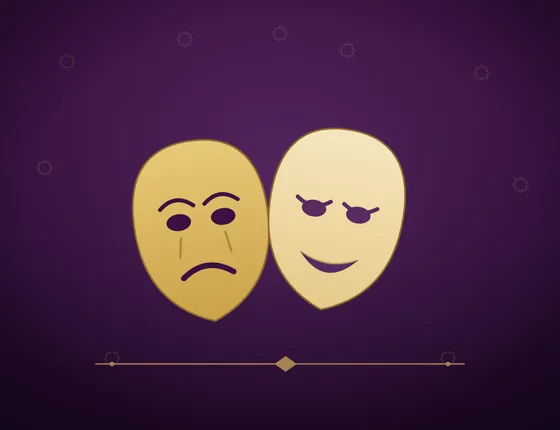
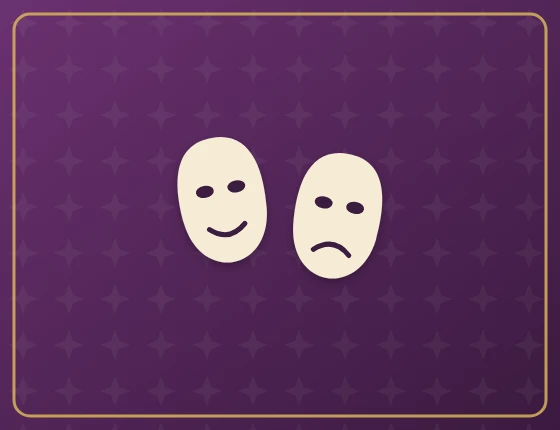
Distinct word-game covers + replace مسلسلات gag entries
#3 Covers: the four وش الكلمة games shared one cover and looked identical in
the picker. Generated a cohesive but distinct set (text-free — the UI overlays
the name): theater masks for ولا كلمة (purple), a clapperboard for أفلام
(crimson), a calligraphy reed pen for عربي (green), a retro TV for مسلسلات
(blue). New files cat-charades-{movies,arabic,series}.webp; cat-charades.webp
regenerated for ولا كلمة; meta image paths updated.

#5 Gags: the three joke entries in مسلسلات ("Chernobyl (the reactor, not the
show)", "Fleabag's confession booth (the exact moment)", "The Singing
Detective (Potter's masterpiece)") — which would collide with real entries if
merely trimmed — were replaced with fresh tier-appropriate series (The Terror
/ Peep Show / Boys from the Blackstuff), each QR regenerated to match.

Verified: no parenthetical entries remain; all 200 series QRs round-trip
decode to their current answer; smoke test 5/5.

Claude-Session: https://claude.ai/code/session_01Kzeetd7pnUyQnYaeMeHMkz

diff --git a/game-mobile.html b/game-mobile.html
@@ -6085,7 +6085,7 @@
           ["", "Mare of Easttown", null, "assets/img/qr-series/qr-400-35.png"],
           ["", "Show Me a Hero", null, "assets/img/qr-series/qr-400-36.png"],
           ["", "Generation Kill", null, "assets/img/qr-series/qr-400-37.png"],
-          ["", "Chernobyl (the reactor, not the show)", null, "assets/img/qr-series/qr-400-38.png"],
+          ["", "The Terror", null, "assets/img/qr-series/qr-400-38.png"],
           ["", "The State", null, "assets/img/qr-series/qr-400-39.png"],
           ["", "Years and Years", null, "assets/img/qr-series/qr-400-40.png"]
         ],
@@ -6095,7 +6095,7 @@
           ["", "My Genius Friend", null, "assets/img/qr-series/qr-500-03.png"],
           ["", "This Is Going to Hurt", null, "assets/img/qr-series/qr-500-04.png"],
           ["", "Detectorists", null, "assets/img/qr-series/qr-500-05.png"],
-          ["", "Fleabag's confession booth (the exact moment)", null, "assets/img/qr-series/qr-500-06.png"],
+          ["", "Peep Show", null, "assets/img/qr-series/qr-500-06.png"],
           ["", "Ghosts", null, "assets/img/qr-series/qr-500-07.png"],
           ["", "Inside No. 9", null, "assets/img/qr-series/qr-500-08.png"],
           ["", "The League of Gentlemen", null, "assets/img/qr-series/qr-500-09.png"],
@@ -6126,7 +6126,7 @@
           ["", "The Hour", null, "assets/img/qr-series/qr-500-34.png"],
           ["", "Our Friends in the North", null, "assets/img/qr-series/qr-500-35.png"],
           ["", "Edge of Darkness", null, "assets/img/qr-series/qr-500-36.png"],
-          ["", "The Singing Detective (Potter's masterpiece)", null, "assets/img/qr-series/qr-500-37.png"],
+          ["", "Boys from the Blackstuff", null, "assets/img/qr-series/qr-500-37.png"],
           ["", "Pennies from Heaven", null, "assets/img/qr-series/qr-500-38.png"],
           ["", "Tinker Tailor Soldier Spy", null, "assets/img/qr-series/qr-500-39.png"],
           ["", "Smiley's People", null, "assets/img/qr-series/qr-500-40.png"]
@@ -7719,9 +7719,9 @@
       { id: "omaniFootball", name: "كرة عمانية", image: "assets/img/cat-omaniFootball.webp", empty: true, fullImage: true },
       { id: "khareef", name: "خريف ظفار", image: "assets/img/cat-khareef.webp", empty: true, fullImage: true },
       { id: "charades", name: "ولا كلمة", image: "assets/img/cat-charades.webp", empty: true, fullImage: true },
-      { id: "charadesMovies", name: "وش الكلمة أفلام", image: "assets/img/cat-charades.webp", empty: true, fullImage: true },
-      { id: "charadesArabic", name: "وش الكلمة عربي", image: "assets/img/cat-charades.webp", empty: true, fullImage: true },
-      { id: "charadesSeries", name: "وش الكلمة مسلسلات", image: "assets/img/cat-charades.webp", empty: true, fullImage: true },
+      { id: "charadesMovies", name: "وش الكلمة أفلام", image: "assets/img/cat-charades-movies.webp", empty: true, fullImage: true },
+      { id: "charadesArabic", name: "وش الكلمة عربي", image: "assets/img/cat-charades-arabic.webp", empty: true, fullImage: true },
+      { id: "charadesSeries", name: "وش الكلمة مسلسلات", image: "assets/img/cat-charades-series.webp", empty: true, fullImage: true },
       { id: "seerah", name: "السيرة النبوية", image: "assets/img/cat-seerah.webp", empty: true, fullImage: true },
       { id: "whoAmI", name: "من أنا؟", image: "assets/img/cat-whoAmI.webp", empty: true, fullImage: true }
     ];
